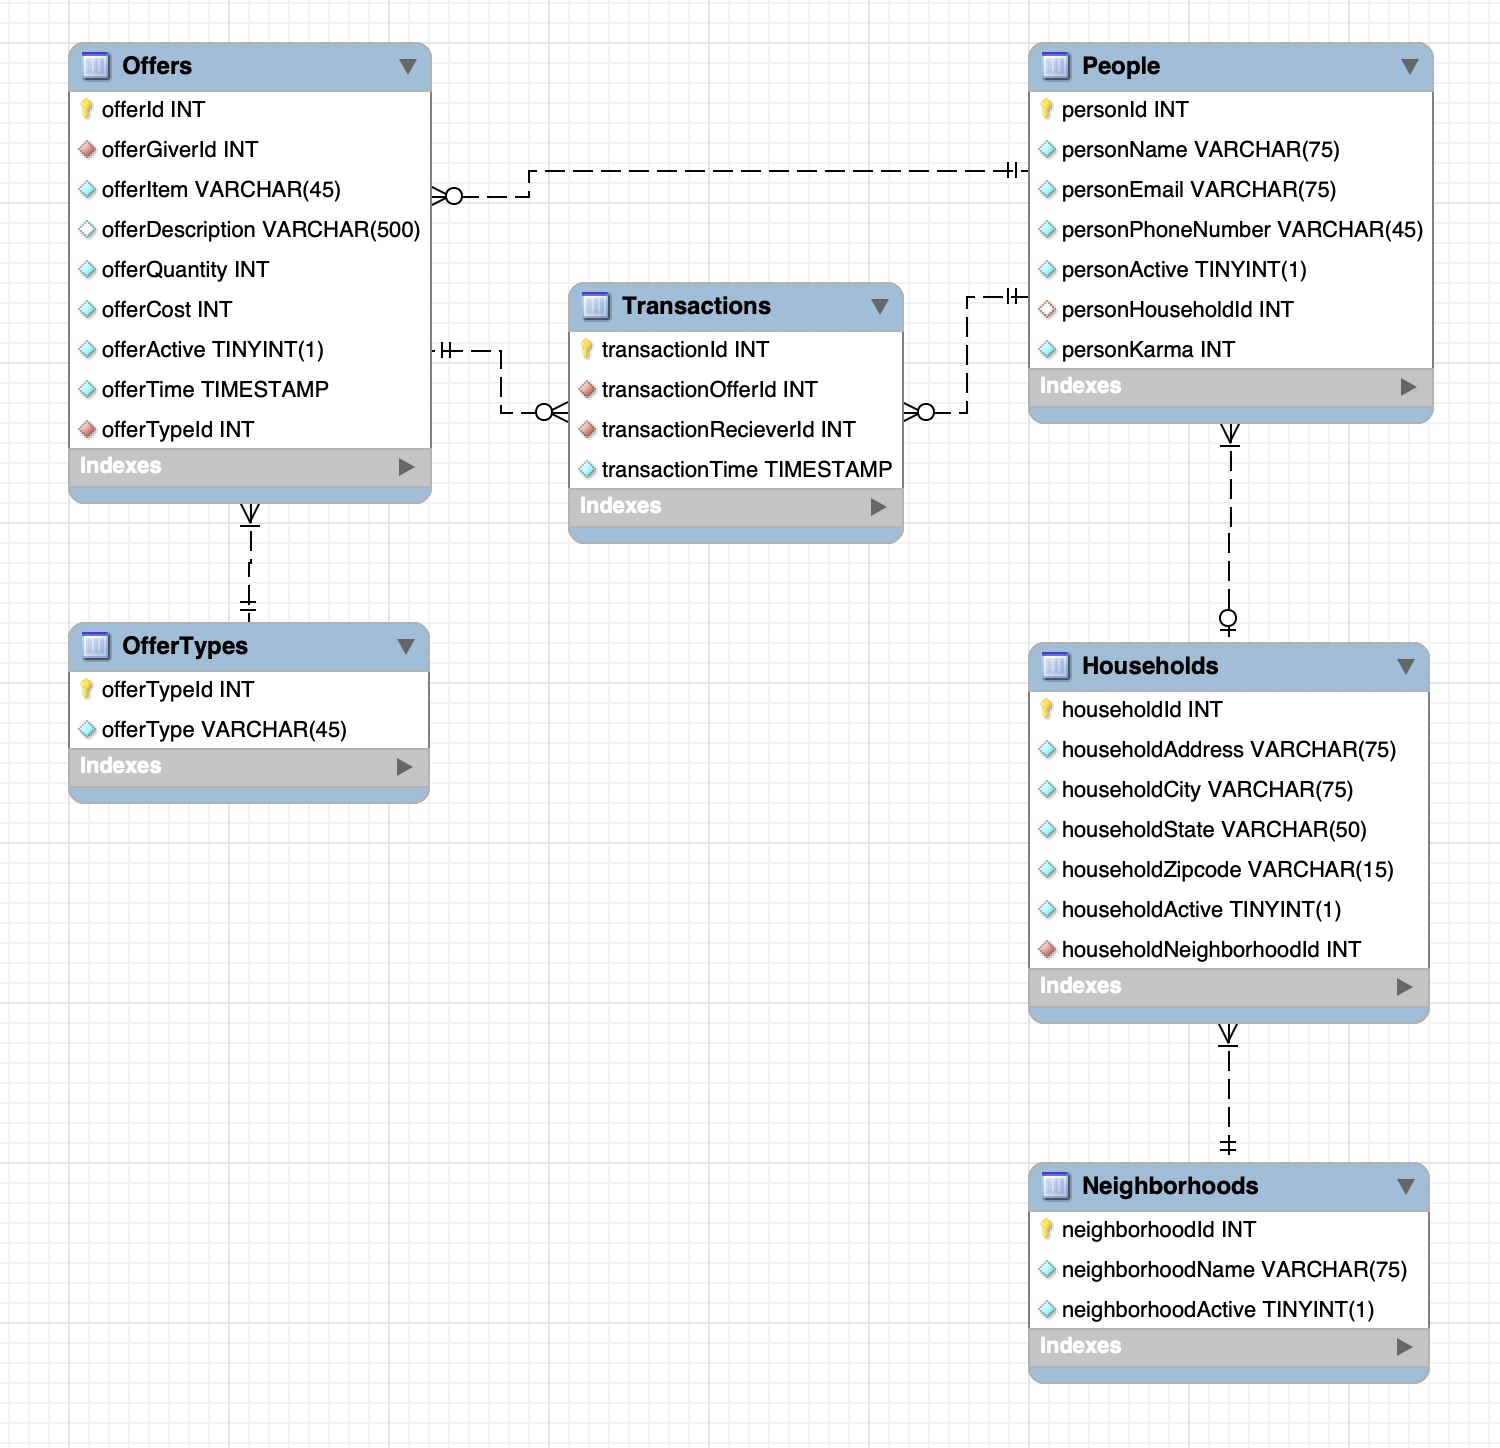
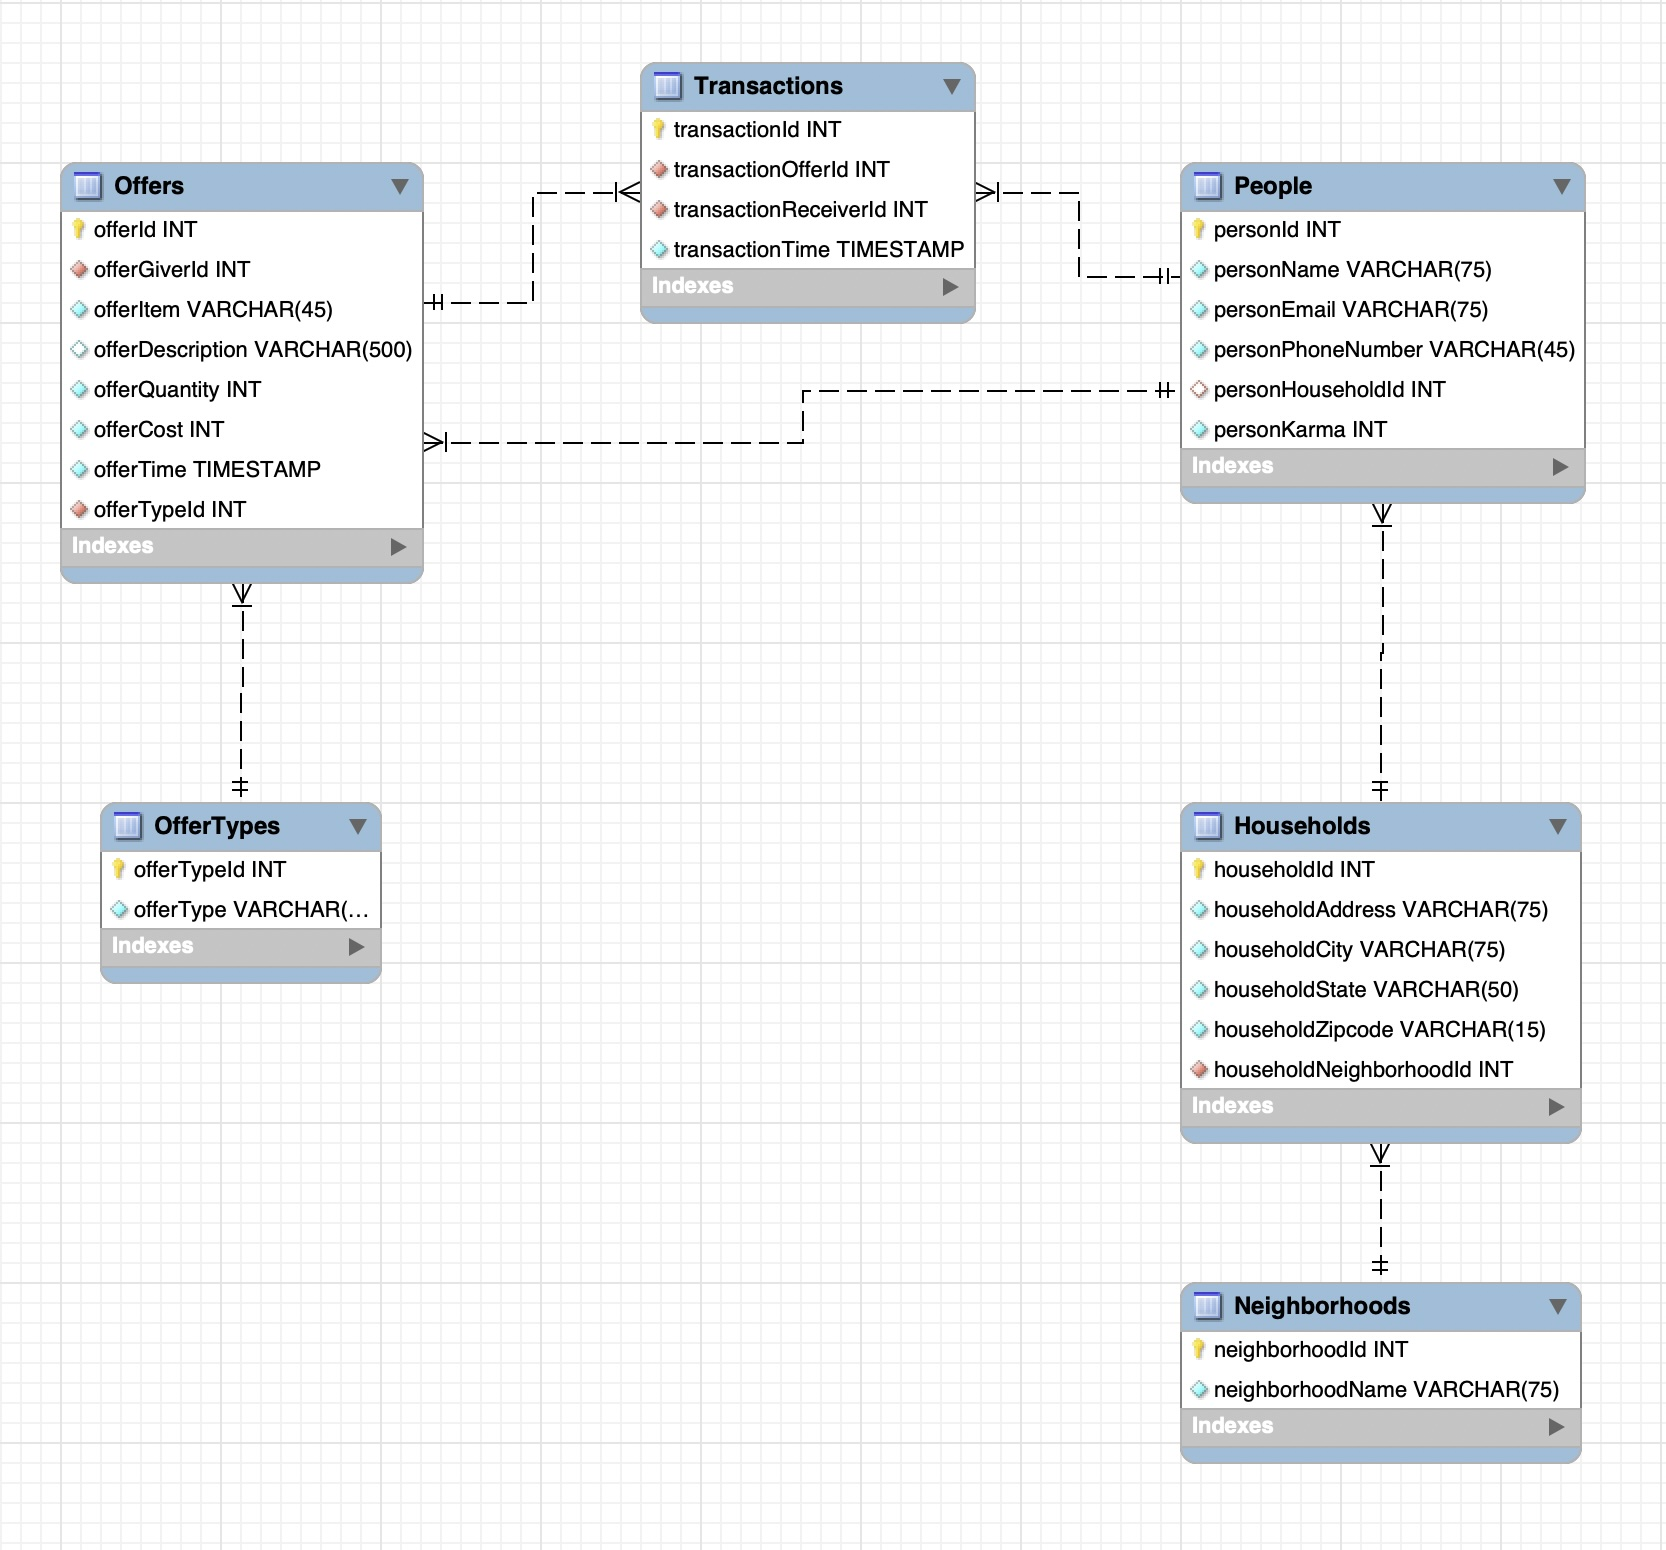
Replaced index schema image, updated port in app.js file

diff --git a/app.js b/app.js
@@ -15,7 +15,7 @@ var exphbs = require('express-handlebars');     // Import express-handlebars
 
 var express = require('express');   // We are using the express library for the web server
 var app     = express();            // We need to instantiate an express object to interact with the server in our code
-PORT        = 39743;                 // Set a port number at the top so it's easy to change in the future
+PORT        = 39746;                 // Set a port number at the top so it's easy to change in the future
 app.engine('.hbs', engine({extname: ".hbs"}));  // Create an instance of the handlebars engine to process templates
 app.set('view engine', '.hbs');                 // Tell express to use the handlebars engine whenever it encounters a *.hbs file.
 app.use(express.json())
